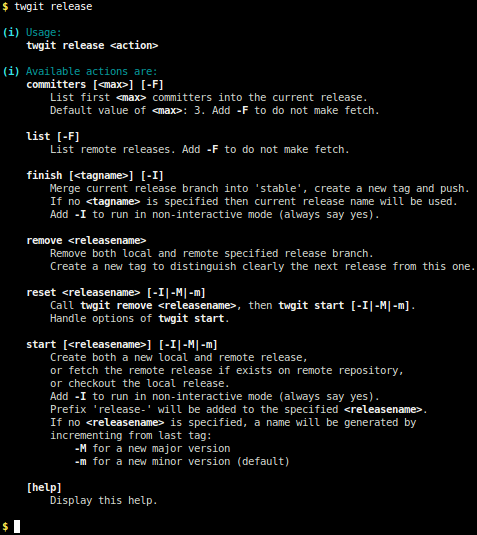
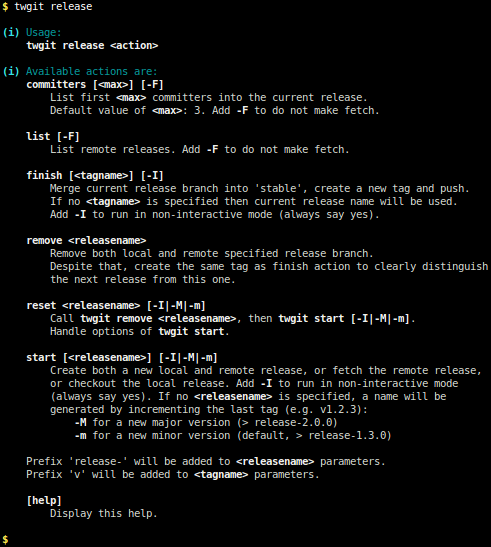
Update CHANGELOG and screenshots.

Changed region(s): [[0.0, 0.1196, 0.9979, 0.957], [0.0, 0.0, 0.3229, 0.0897], [0.0, 0.957, 0.0587, 1.0]]

diff --git a/CHANGELOG.md b/CHANGELOG.md
@@ -1,6 +1,26 @@
 ChangeLog
 =========
 
+## Version 1.7.0 (2012-04-29)
+
+Features:
+
+  - #48: Enhance update procedure: display news of CHANGELOG, Bash autocompletion update, and evolution of config file.
+  - #18: Fetch title of Redmine (sub)project for (sub)project feature
+
+Other:
+
+  - #45: Change license to Apache 2.0
+
+Doc:
+
+  - #47: Contextual help for twgit init need more precision on tag format
+  - #46: Fix "Getting started" graph
+
+Fix:
+
+  - #49: Two init commit nodes are created when starting a new feature
+
 ## Version 1.6.0 (2012-04-02)
 
 Features:

diff --git a/README.md b/README.md
@@ -49,6 +49,7 @@ More [Installation instructions](https://github.com/Twenga/twgit/wiki/Twgit#wiki
 ![twgit tag](https://github.com/Twenga/twgit/raw/stable/doc/screenshot-twgit-tag.png)
 
 ## Copyrights & licensing
+Licensed under the Apache License 2.0.
 See [LICENSE](https://github.com/Twenga/twgit/blob/stable/LICENSE) file for details.
 
 ## ChangeLog
